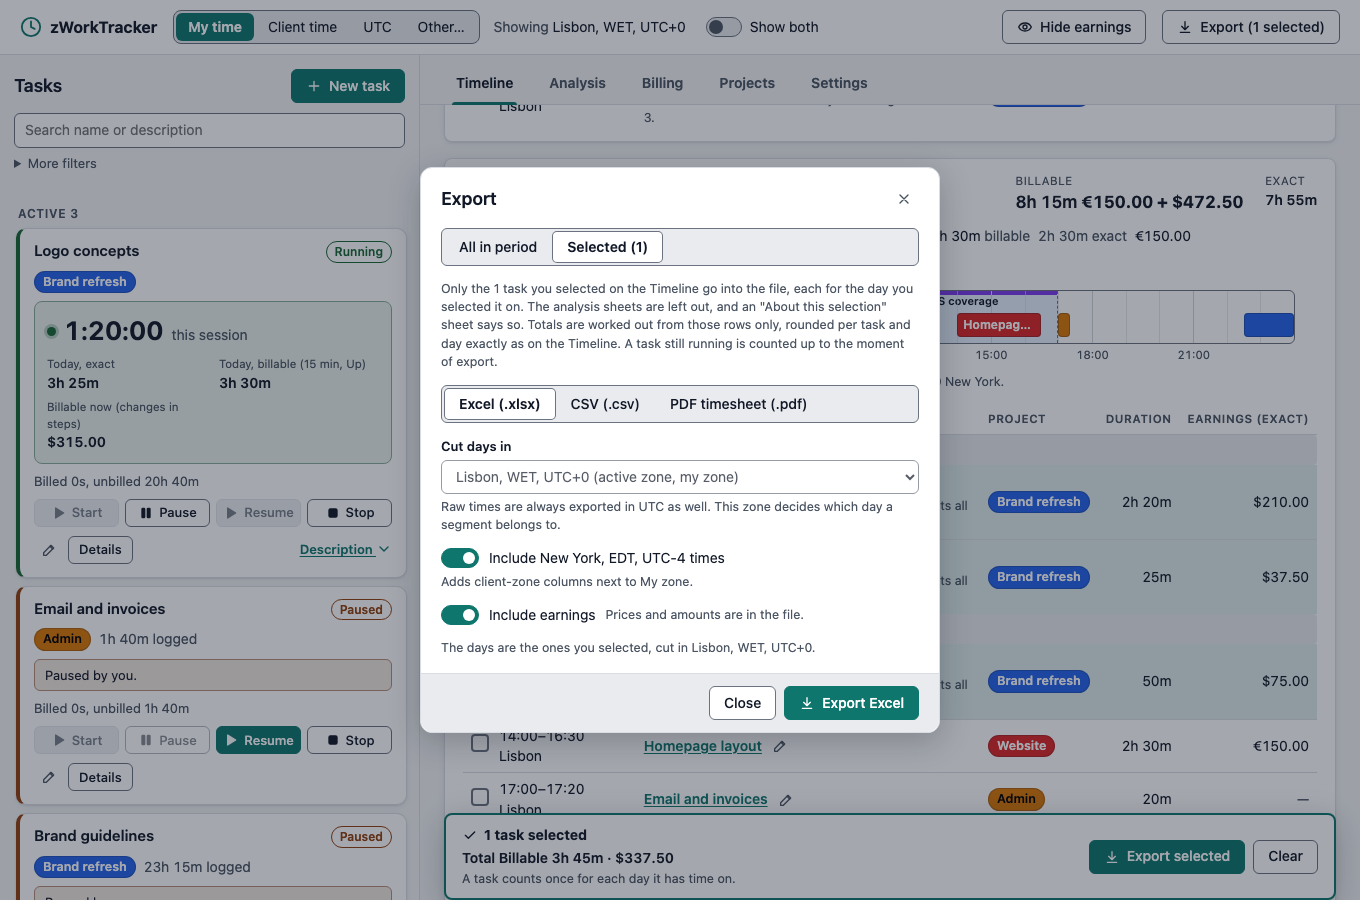
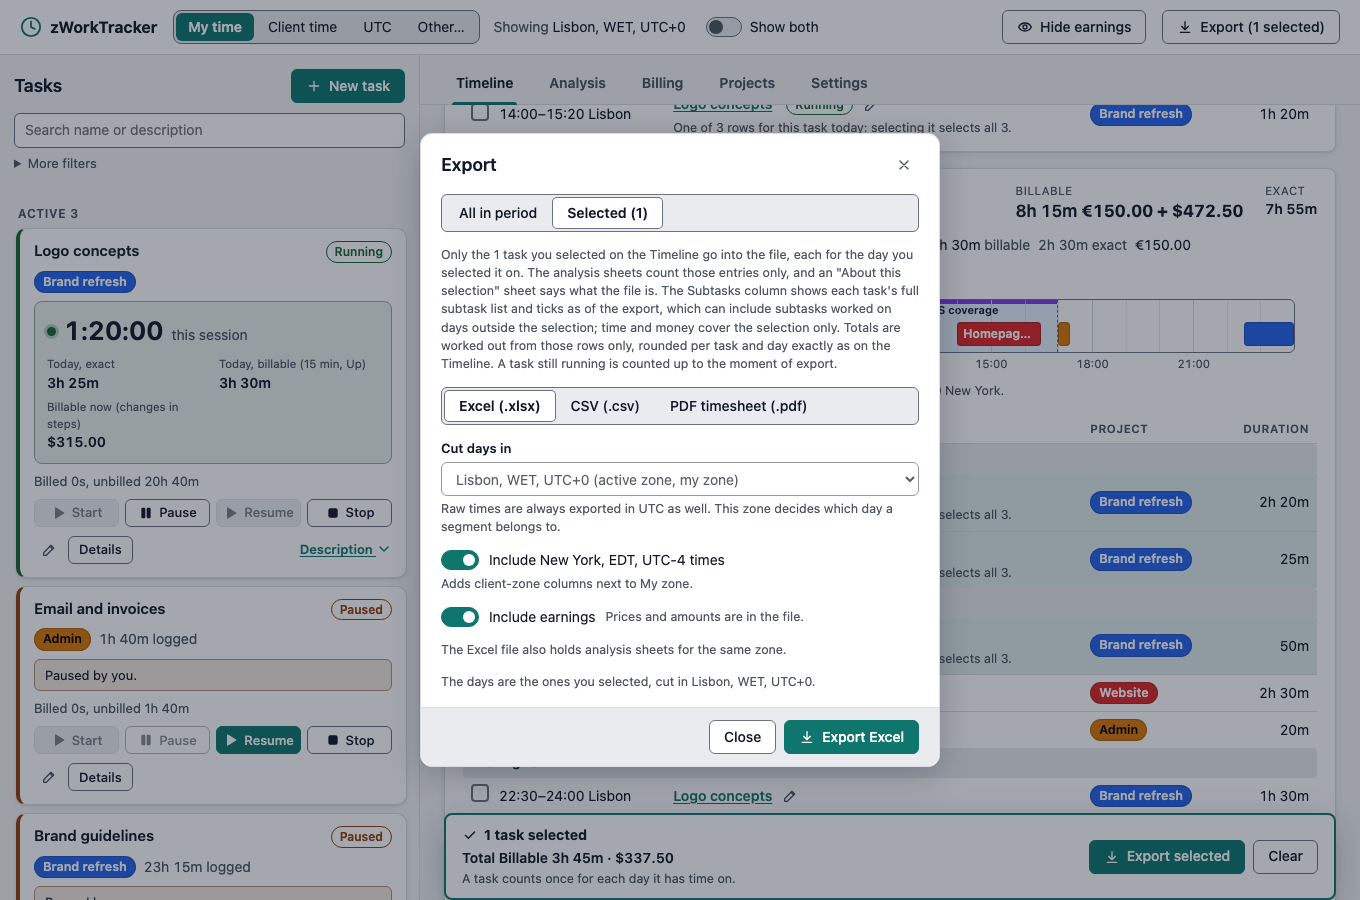
Say that a selected Excel row lists the task's whole subtask list
The Subtasks column keeps each task's full list and ticks as of the export,
so it can name subtasks worked on days outside the selection. The About sheet,
the export dialog and the README said or implied otherwise. They now say so,
and that time and money cover the selection only. CSV and the PDF timesheet
print no subtasks, so they gain no wording; tests pin that.

verify_selection.py allows that text in one Subtasks cell only. The README's
export screenshot is refreshed; it still showed older dialog wording.

diff --git a/src/features/timeline/selection.test.tsx b/src/features/timeline/selection.test.tsx
@@ -274,7 +274,15 @@ describe('exporting a selection', () => {
     await user.click(within(bar() as HTMLElement).getByRole('button', { name: 'Export selected' }));
     const dialog = await screen.findByRole('dialog', { name: 'Export' });
     expect(within(dialog).getByRole('radio', { name: 'Selected (2)' })).toBeChecked();
-    expect(within(dialog).getByTestId('selection-scope-note')).toHaveTextContent(/analysis sheets count those entries only/);
+    const note = within(dialog).getByTestId('selection-scope-note');
+    expect(note).toHaveTextContent(/analysis sheets count those entries only/);
+    expect(note).toHaveTextContent(/full subtask list and ticks as of the export, which can include subtasks worked on days outside the selection; time and money cover the selection only/);
+    // Only Excel has a Subtasks column, so only Excel gets that sentence.
+    for (const format of ['CSV (.csv)', 'PDF timesheet (.pdf)']) {
+      await user.click(within(dialog).getByRole('radio', { name: format }));
+      expect(within(dialog).getByTestId('selection-scope-note')).not.toHaveTextContent(/subtask/i);
+    }
+    await user.click(within(dialog).getByRole('radio', { name: 'Excel (.xlsx)' }));
     await user.click(within(dialog).getByRole('button', { name: 'Export Excel' }));
     await within(dialog).findByTestId('export-result');
     const req = state.exports[0]?.request;

diff --git a/src/features/export/ExportDialog.tsx b/src/features/export/ExportDialog.tsx
@@ -109,7 +109,7 @@ export function ExportDialog({ open, onClose }: { open: boolean; onClose: () => 
         />
         {bySelection && selectedCount > 0 && (
           <p className="field-hint" data-testid="selection-scope-note">
-            Only the {selectedCount} {selectedCount === 1 ? 'task' : 'tasks'} you selected on the Timeline go into the file, each for the day you selected it on. {kind === 'xlsx' ? 'The analysis sheets count those entries only, and an "About this selection" sheet says what the file is. ' : kind === 'csv' ? 'A final "selection" row says so. ' : 'The timesheet says so. '}
+            Only the {selectedCount} {selectedCount === 1 ? 'task' : 'tasks'} you selected on the Timeline go into the file, each for the day you selected it on. {kind === 'xlsx' ? 'The analysis sheets count those entries only, and an "About this selection" sheet says what the file is. The Subtasks column shows each task\'s full subtask list and ticks as of the export, which can include subtasks worked on days outside the selection; time and money cover the selection only. ' : kind === 'csv' ? 'A final "selection" row says so. ' : 'The timesheet says so. '}
             Totals are worked out from those rows only, rounded per task and day exactly as on the Timeline. A task still running is counted up to the moment of export.
           </p>
         )}

diff --git a/e2e/gapfill-selection.spec.ts b/e2e/gapfill-selection.spec.ts
@@ -141,6 +141,7 @@ test.describe('selecting Timeline entries', () => {
     const dialog = page.getByRole('dialog', { name: 'Export' });
     await expect(dialog.getByRole('radio', { name: 'Selected (1)' })).toBeChecked();
     await expect(dialog.getByTestId('selection-scope-note')).toContainText('analysis sheets count those entries only');
+    await expect(dialog.getByTestId('selection-scope-note')).toContainText('full subtask list and ticks as of the export');
     await dialog.getByRole('button', { name: 'Export Excel' }).click();
     await expect(dialog.getByTestId('export-result')).toBeVisible();
     const sent = await exportsOf(page);

diff --git a/src-tauri/crates/z-work-core/src/report.rs b/src-tauri/crates/z-work-core/src/report.rs
@@ -51,7 +51,8 @@ const ANALYSIS_SETTINGS: [&str; 5] = [
 ];
 
 impl ExportSource {
-    /// A copy holding the selected task-days and nothing else, not even the other records' names.
+    /// A copy holding the selected task-days and nothing else, not even the other records' names. A
+    /// selected task keeps its description whole, so Excel's Subtasks column shows its full list.
     /// Ids are checked against the store, and totals are worked out from there as usual.
     pub fn narrowed(&self, tz: Tz, entries: &[SelectedEntry]) -> Result<Self, CoreError> {
         if entries.is_empty() {
@@ -859,9 +860,73 @@ pub(crate) mod tests {
             assert!(crate::csv::build(&src, &none).is_err());
         }
 
+        /// Gives `Write` a ticked subtask worked on 2 March alone, so never on a day selected below.
+        fn add_subtask_of_another_day(src: &mut ExportSource, t: &str) {
+            src.data.tasks.get_mut(t).unwrap().description = serde_json::json!({"type":"doc","content":[
+                {"type":"taskList","content":[
+                    {"type":"taskItem","attrs":{"checked":true,"subtaskId":"sub-other-day"},"content":[
+                        {"type":"paragraph","content":[{"type":"text","text":"Subtask of another day"}]}
+                    ]}
+                ]}
+            ]});
+            src.data.segments.get_mut("b").unwrap().subtask_id = Some("sub-other-day".into());
+        }
+
+        #[test]
+        fn a_selected_excel_row_lists_every_subtask_and_the_about_sheet_says_so() {
+            let (mut src, t, _) = world();
+            add_subtask_of_another_day(&mut src, &t);
+            let request = ExportRequest {
+                day_zone: "UTC".into(),
+                my_zone: "UTC".into(),
+                client_zone: None,
+                include_earnings: true,
+                segment_shifts: BTreeMap::new(),
+                analytics: Vec::new(),
+                selection: Some(vec![entry(&t, "2026-03-01")]),
+            };
+            let only = src.narrowed(UTC, &[entry(&t, "2026-03-01")]).unwrap();
+            assert_eq!(only.rows(UTC)[0].subtasks, "[x] Subtask of another day");
+
+            let dir = tempfile::tempdir().unwrap();
+            let zip = dir.path().join("x.xlsx");
+            std::fs::write(&zip, crate::xlsx::build(&src, &request).unwrap()).unwrap();
+            let out = std::process::Command::new("unzip")
+                .arg("-p")
+                .arg(&zip)
+                .arg("xl/sharedStrings.xml")
+                .output()
+                .unwrap();
+            let strings = String::from_utf8_lossy(&out.stdout);
+            assert!(strings.contains("[x] Subtask of another day"));
+            assert!(strings.contains("Time and money on every sheet cover those entries only."));
+            assert!(strings.contains("full subtask list and ticks as of the export"));
+            assert!(strings.contains("subtasks worked on days outside the selection"));
+            assert!(!strings.contains("Every sheet"));
+        }
+
+        /// The dialog and README say only Excel has this column. If CSV gains it, they must change.
+        #[test]
+        fn a_selected_csv_names_no_subtask() {
+            let (mut src, t, _) = world();
+            add_subtask_of_another_day(&mut src, &t);
+            let request = ExportRequest {
+                day_zone: "UTC".into(),
+                my_zone: "UTC".into(),
+                client_zone: None,
+                include_earnings: true,
+                segment_shifts: BTreeMap::new(),
+                analytics: Vec::new(),
+                selection: Some(vec![entry(&t, "2026-03-01")]),
+            };
+            let csv = crate::csv::build(&src, &request).unwrap();
+            assert!(!csv.contains("Subtask of another day"));
+        }
+
         #[test]
         fn the_workbook_builds_from_a_selection_with_its_own_analytics() {
             let (mut src, t, other) = world();
+            add_subtask_of_another_day(&mut src, &t);
             // What `scripts/verify_selection.py` looks for: names that must and must not get in.
             let stamp = crate::model::Stamp::default();
             for (id, name) in [("tag-shown", "Shown tag"), ("tag-hidden", "Hidden tag")] {

diff --git a/scripts/verify_selection.py b/scripts/verify_selection.py
@@ -2,7 +2,7 @@
 """Reads an export of a selection with openpyxl and the raw zip, to show nothing else got in.
 
 Selected: Alpha's task `Write` on 1 March only, 10 minutes rounded Up to 15, at 60 an hour, tagged
-`Shown tag`. 1 March 2026 is a Sunday.
+`Shown tag`. 1 March 2026 is a Sunday. `Write` has a ticked subtask worked on 2 March alone.
 Not selected: `Write` on 2 and 3 March; `Secret` (tagged `Hidden tag`) on 1 March; `LeakTask` in
 `LeakProject` at 99.99 an hour on 1 March. `Weekday shift` runs on no selected day. The UI also sent a
 sheet named `Leak`, which must be ignored.
@@ -46,6 +46,10 @@ check("it says it is a selection", "About this selection" in values.sheetnames)
 about = " ".join(str(c) for r in values["About this selection"].iter_rows(values_only=True) for c in r if c)
 check("the note no longer says analytics are left out", "left out" not in about)
 check("the note says it is a selection", "selection of 1 task-day" in about, about[:80])
+check("the note limits its claim to time and money", "Time and money on every sheet cover those entries only." in about)
+check("the note no longer says every sheet covers only those entries", "Every sheet" not in about)
+check("the note says the Subtasks column is the full list as of the export", "full subtask list and ticks as of the export" in about)
+check("the note says that can include days outside the selection", "subtasks worked on days outside the selection" in about)
 for sheet in values.worksheets:
     if sheet.title in wanted:
         check(f"{sheet.title}'s title says selected", "Selected entries" in str(sheet["A1"].value), str(sheet["A1"].value)[:60])
@@ -77,6 +81,16 @@ check("no cell holds an unselected hour", not any(near(c, duration(3600)) for _,
 labor = values.worksheets[0]
 rows = [r for r in labor.iter_rows(values_only=True) if any("Write" == c for c in r)]
 check("one row for the selected task-day", len(rows) == 1, str(len(rows)))
+headers = [c.value for c in labor[2]]
+check("the first sheet's columns are unchanged", headers == ["Project", "Day", "Time", "Task name", "Subtasks"], str(headers))
+
+# The one allowance for unselected data, which the About sheet discloses: a selected task's Subtasks
+# cell holds its full list, so a subtask worked on a day left out appears there. It is this one cell
+# and no other, the text carries no time or money, and the scans above still cover all the rest.
+OTHER_DAY = "Subtask of another day"
+check("the selected row's Subtasks cell is the full list with its tick", len(rows) == 1 and rows[0][4] == f"[x] {OTHER_DAY}", str(rows[0][4]) if rows else "")
+holding = [(s.title, c.coordinate) for s in values.worksheets for row in s.iter_rows() for c in row if isinstance(c.value, str) and OTHER_DAY in c.value]
+check("that subtask is in that cell alone", len(holding) == 1 and holding[0][0] == labor.title and holding[0][1].startswith("E"), str(holding))
 
 earnings = values["Earnings"]
 money = [c for r in earnings.iter_rows(values_only=True) for c in r if isinstance(c, (int, float)) and not isinstance(c, bool)]

diff --git a/src-tauri/crates/z-work-core/src/xlsx.rs b/src-tauri/crates/z-work-core/src/xlsx.rs
@@ -694,10 +694,13 @@ pub fn build(source: &ExportSource, request: &ExportRequest) -> Result<Vec<u8>, 
         sheet.set_name("About this selection").map_err(err)?;
         used.push("About this selection".to_owned());
         sheet
-            .write_string(0, 0, format!("This export holds a selection of {count} task-day entries from the Timeline. Every sheet and total covers those only."))
+            .write_string(0, 0, format!("This export holds a selection of {count} task-day entries from the Timeline. Time and money on every sheet cover those entries only."))
             .map_err(err)?;
         sheet
-            .write_string(1, 0, "The analysis sheets run from the first to the last selected day and count only the selected entries. Averages per calendar day still count the days between them. Shift figures count the shifts of selected days, and an effective hourly rate on a fixed fee is over the selected time.")
+            .write_string(1, 0, "The Subtasks column on the first sheet shows each task's full subtask list and ticks as of the export, which can include subtasks worked on days outside the selection.")
+            .map_err(err)?;
+        sheet
+            .write_string(2, 0, "The analysis sheets run from the first to the last selected day and count only the selected entries. Averages per calendar day still count the days between them. Shift figures count the shifts of selected days, and an effective hourly rate on a fixed fee is over the selected time.")
             .map_err(err)?;
         selection_sheets = crate::analytics::selection_sheets(source, &request.day_zone)?;
         &selection_sheets

diff --git a/src-tauri/crates/z-work-core/src/pdf.rs b/src-tauri/crates/z-work-core/src/pdf.rs
@@ -753,6 +753,14 @@ mod tests {
             "2026-03-01T11:00:00Z",
             "2026-03-01T12:00:00Z",
         );
+        // The dialog and README say only Excel has a Subtasks column. If this prints one, they must change.
+        s.tasks.get_mut(&t).unwrap().description = serde_json::json!({"type":"doc","content":[
+            {"type":"taskList","content":[
+                {"type":"taskItem","attrs":{"checked":true},"content":[
+                    {"type":"paragraph","content":[{"type":"text","text":"Subtask of another day"}]}
+                ]}
+            ]}
+        ]});
         let src = source(s, "2026-04-01T00:00:00Z");
         let request = PdfRequest {
             selection: Some(vec![crate::report::SelectedEntry {
@@ -764,6 +772,7 @@ mod tests {
         let t = text(&src, &request);
         assert!(t.contains("Selection of 1 entries"));
         assert!(!t.contains("Secret"));
+        assert!(!t.contains("Subtask of another day"));
         assert!(!t.contains("2026-03-02"));
         let bytes = build(&src, &request, None).unwrap().bytes;
         assert!(!contains(&bytes, b"Secret"));

diff --git a/README.md b/README.md
@@ -271,7 +271,7 @@ The Excel workbook has these sheets:
 3. **Earnings** (if included): per project and currency, with per-currency totals.
 4. **Analytics:** KPI summary, Bands, Projects, Weekdays, Shifts when configured, and earnings sheets if included. These follow the last Analysis view, or all logged history if Analysis was never opened.
 
-**Exporting a selection.** When entries are selected, the dialog's scope defaults to **Selected** instead of **All in period**. The backend gets only task ids and days, checks them, refuses an empty selection or an entry with no time, and recomputes everything itself, with rounding per task-day, so figures match the Timeline. Labor by project, Segment details, Earnings, Adjustments and the Analytics sheets cover the selection only, with the first sheet's columns unchanged, and a sheet named **About this selection** says what the file is. The backend works out those Analytics sheets itself, by the same rules as the Analysis tab: their period runs from the first to the last selected day, each title says it is a selection, and `fixtures/analytics-parity.json` holds both sides to the same figures. A few things differ from a whole-period file, because of what a selection is: the earnings sheet has no row for a day left out, shift figures count only the shifts of selected days (a shift that runs on a selected day is named even with no selected time in it), the Shift column of Segment details covers the selected part of a segment, an effective hourly rate on a fixed fee is over the selected time only, a task counts as in progress only if its latest day is selected, a day holding only a billable pause still counts its project and task, and there is no projected total. Averages per calendar day and per weekday still count the days between selected days. CSV ends with a `selection` row and the PDF timesheet prints a line saying the same. The selection clears after an export only if you ask.
+**Exporting a selection.** When entries are selected, the dialog's scope defaults to **Selected** instead of **All in period**. The backend gets only task ids and days, checks them, refuses an empty selection or an entry with no time, and recomputes everything itself, with rounding per task-day, so figures match the Timeline. Time and money on Labor by project, Segment details, Earnings, Adjustments and the Analytics sheets cover the selection only, with the first sheet's columns unchanged, and a sheet named **About this selection** says what the file is. The Subtasks column shows each task's full subtask list and ticks as of the export, which can include subtasks worked on days outside the selection, and the dialog and that sheet both say so. CSV and the PDF timesheet print no subtasks. The backend works out those Analytics sheets itself, by the same rules as the Analysis tab: their period runs from the first to the last selected day, each title says it is a selection, and `fixtures/analytics-parity.json` holds both sides to the same figures. A few things differ from a whole-period file, because of what a selection is: the earnings sheet has no row for a day left out, shift figures count only the shifts of selected days (a shift that runs on a selected day is named even with no selected time in it), the Shift column of Segment details covers the selected part of a segment, an effective hourly rate on a fixed fee is over the selected time only, a task counts as in progress only if its latest day is selected, a day holding only a billable pause still counts its project and task, and there is no projected total. Averages per calendar day and per weekday still count the days between selected days. CSV ends with a `selection` row and the PDF timesheet prints a line saying the same. The selection clears after an export only if you ask.
 
 ![Export scope](docs/images/export-scope-light.png)
 
